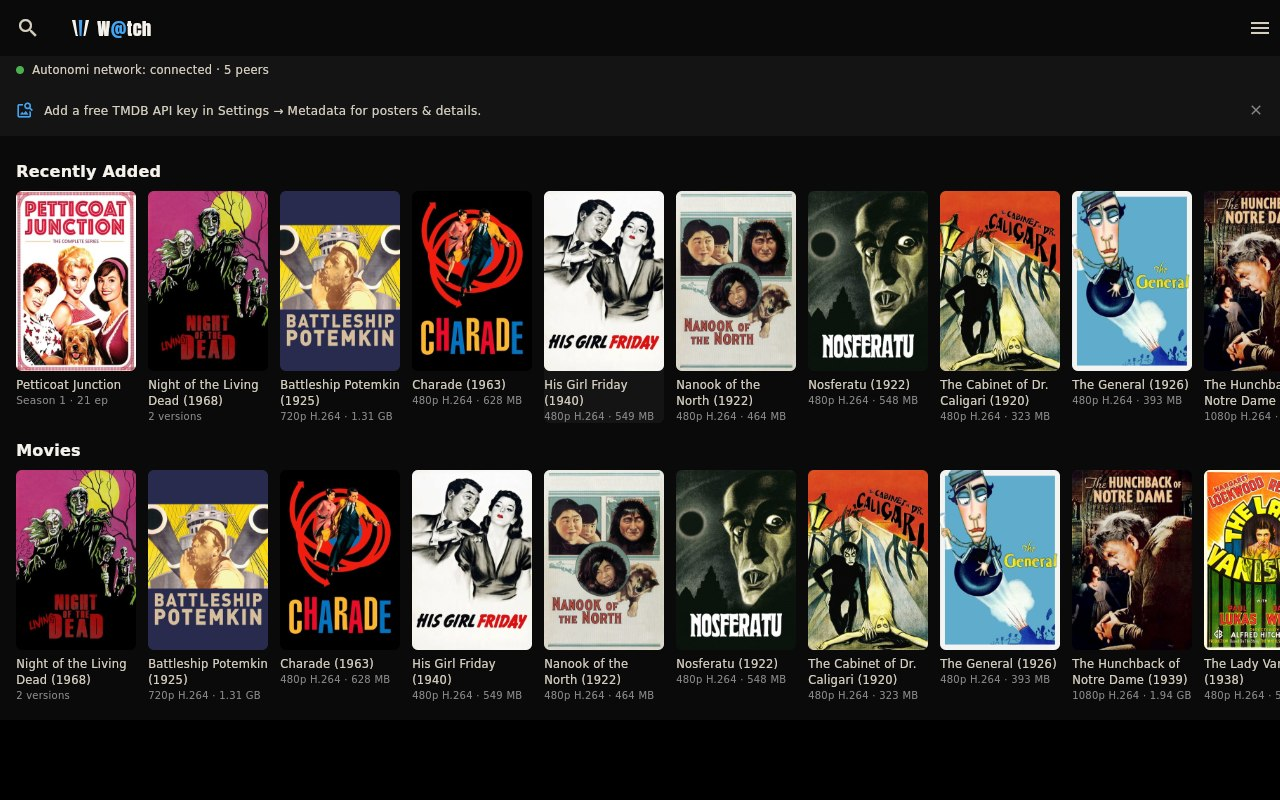
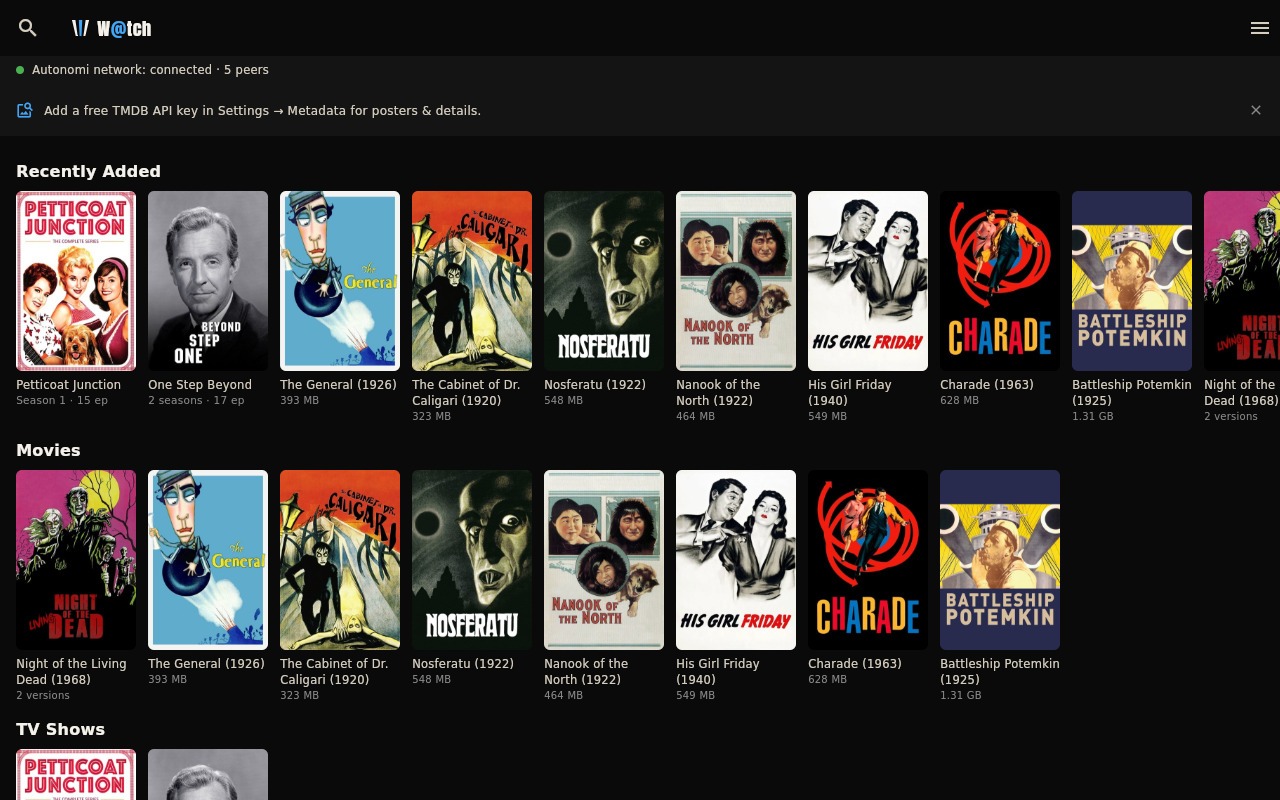
docs: regenerate home screenshot from the cleaned 40-title catalog
The old home-linux.jpg showed titles pulled in the 2026-08-11 copyright
review (The Lady Vanishes, Hunchback of Notre Dame 1939, Petticoat
Junction with 21 episodes). Retaken on a fresh install with the current
catalog/Public Domain.watch-list imported: 40 titles, Petticoat Junction
season 1 shows 15 episodes. Also fix the stale 47-title count in the
catalog link paragraph (now 40).

diff --git a/README.md b/README.md
@@ -18,7 +18,7 @@ network, streamed on demand or downloaded for offline watching.
 films and shows streamed straight from Autonomi — no key, no account, no server.*
 
 Want this exact library? It's a one-file download:
-[**Public Domain.watch-list**](catalog/README.md) — 47 public-domain
+[**Public Domain.watch-list**](catalog/README.md) — 40 public-domain
 films and episodes, posters and descriptions included, ready to import.
 
 <p>
